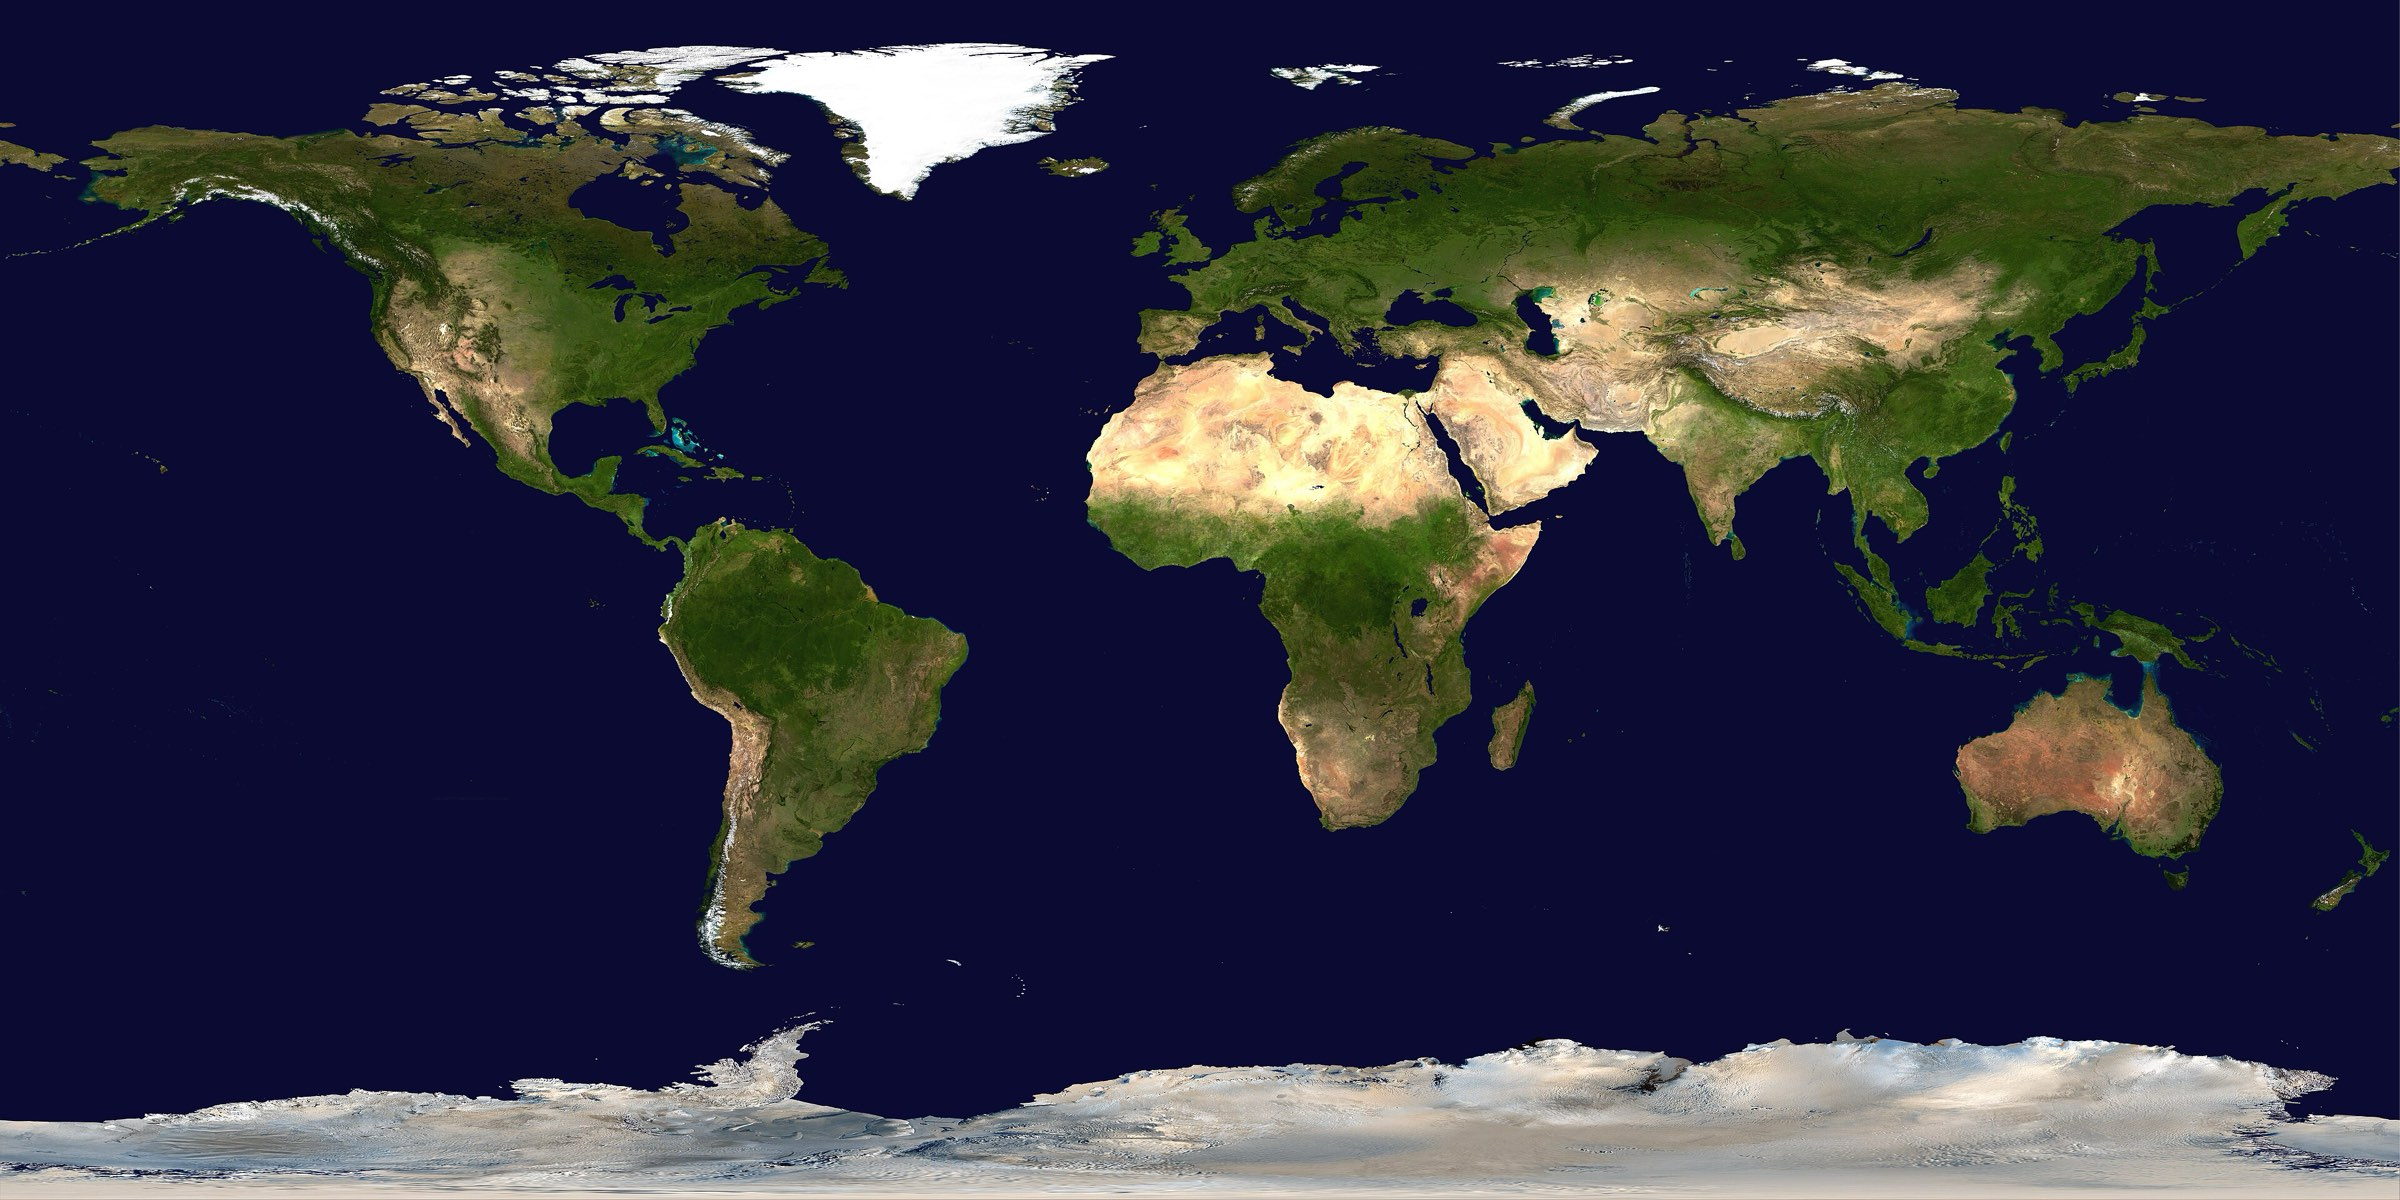
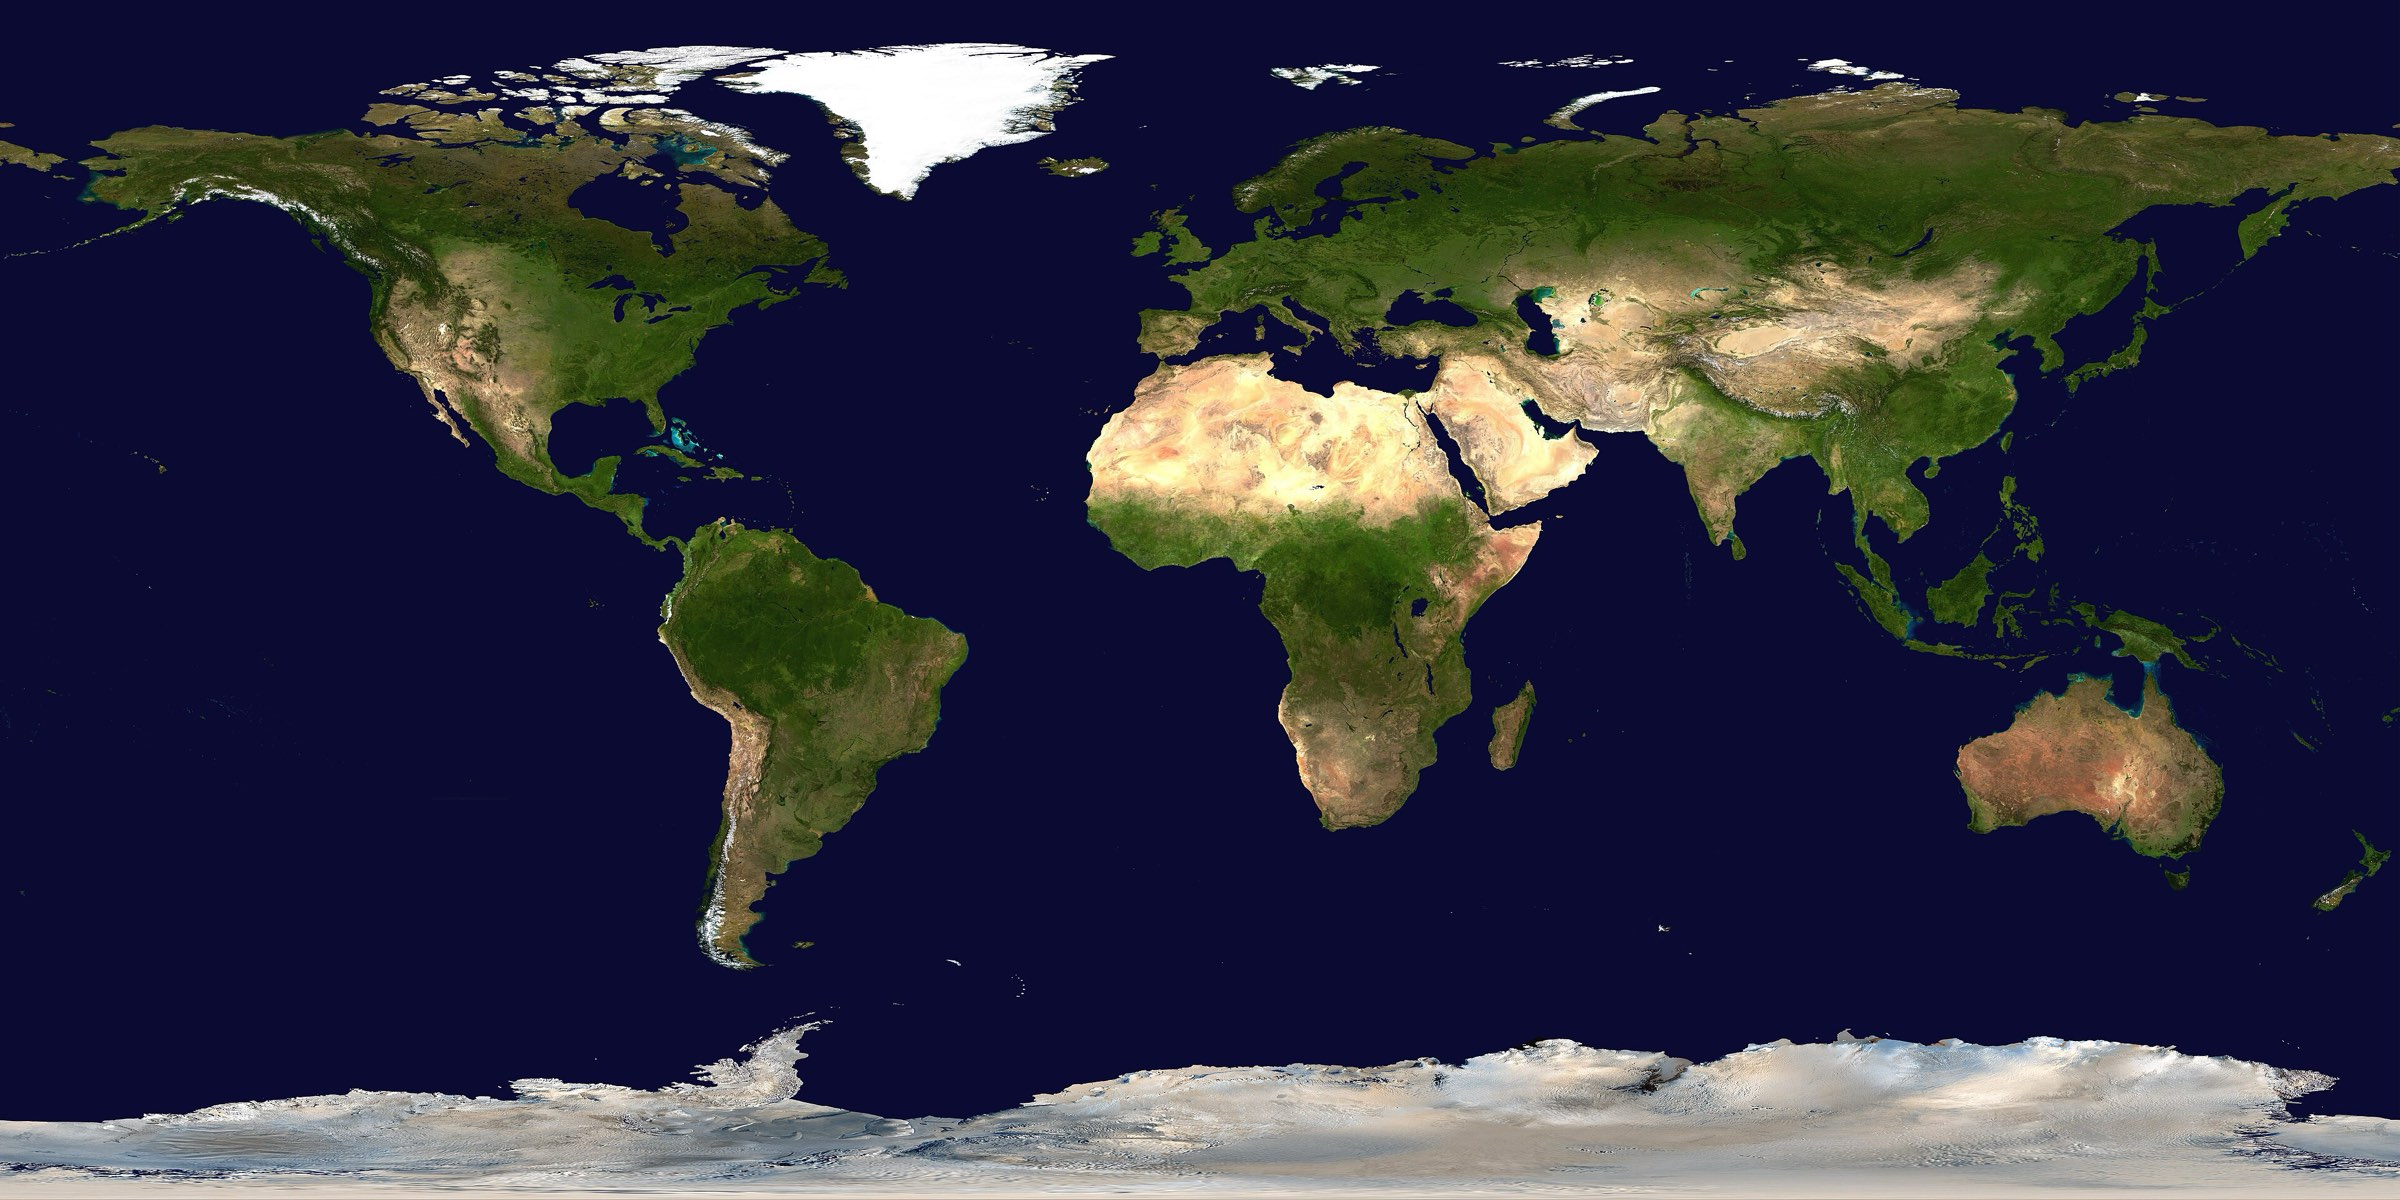
centrage parfait

diff --git a/assets/css/style.css b/assets/css/style.css
@@ -438,17 +438,17 @@ body.page-terre::before {
      est 0°, l'Atlantique au large du golfe de Guinée, si bien que l'Europe et
      l'Afrique partaient vers la droite. On met 8° est au milieu de l'écran,
      soit 52,22 % de la largeur de la photo (0,5 + 8/360).
-     Pas de répétition sur les côtés : le raccord faisait une ligne blanche
-     et coupait l'Alaska en deux. La photo est donc juste assez large pour
-     déborder des deux côtés : au moins 104,65 % de l'écran, soit
-     1 / (2 × (1 − 0,5222)), et au moins deux fois la hauteur de l'écran
-     (elle est deux fois plus large que haute) pour le couvrir en hauteur.
-     Seule la pointe ouest de l'Alaska sort à gauche : c'est le compromis
-     choisi (15° est la coupait de moitié). */
-  --largeur-terre: max(104.65vw, 200vh);
+     La photo garde sa taille normale : juste de quoi couvrir l'écran (deux
+     fois plus large que haute). Sur un écran large, le décalage laisse un
+     petit vide à droite : la photo s'y répète, et comme la Terre fait le
+     tour, la suite est la bonne. À 8°, le bord gauche tombe à 172° ouest,
+     au-delà de l'Alaska, qui reste entier (à 15°, il était coupé en deux).
+     La photo de jour a été rognée de quelques pixels à droite : sa dernière
+     colonne était claire et dessinait une ligne blanche au raccord. */
+  --largeur-terre: max(100vw, 200vh);
   background-color: #06101d;
   background-image: var(--voile), var(--terre);
-  background-repeat: no-repeat, no-repeat;
+  background-repeat: no-repeat, repeat-x;
   background-size: 100% 100%, var(--largeur-terre) auto;
   background-position: 0 0, calc(50vw - 0.5222 * var(--largeur-terre)) 50%;
 }

diff --git a/economie/index.html b/economie/index.html
@@ -15,7 +15,7 @@
   <meta property="og:description" content="Le PIB, la richesse par habitant, la croissance et l’inflation. Carte interactive de 197 pays, de 1980 à 2031, à partir des données officielles du FMI (World Economic Outlook) : classement mondial et évolution année par année.">
   <meta property="og:type" content="website">
   <meta property="og:url" content="https://statsmaps.com/economie/">
-  <link rel="stylesheet" href="../assets/css/style.css?v=867204c6">
+  <link rel="stylesheet" href="../assets/css/style.css?v=878b9673">
   <script src="../assets/js/theme.js?v=78038c6f"></script>
 </head>
 <body class="page-terre">

diff --git a/demographie/index.html b/demographie/index.html
@@ -15,7 +15,7 @@
   <meta property="og:description" content="Le nombre d’habitants de chaque pays, année par année. Carte interactive de 197 pays, de 1980 à 2031, à partir des données officielles du FMI (World Economic Outlook) : classement mondial et évolution année par année.">
   <meta property="og:type" content="website">
   <meta property="og:url" content="https://statsmaps.com/demographie/">
-  <link rel="stylesheet" href="../assets/css/style.css?v=867204c6">
+  <link rel="stylesheet" href="../assets/css/style.css?v=878b9673">
   <script src="../assets/js/theme.js?v=78038c6f"></script>
 </head>
 <body class="page-terre">

diff --git a/infrastructure/index.html b/infrastructure/index.html
@@ -15,7 +15,7 @@
   <meta property="og:description" content="Les réseaux qui font tenir une ville et un pays. Carte interactive de 197 pays, de 1980 à 2031, à partir des données officielles du FMI (World Economic Outlook) : classement mondial et évolution année par année.">
   <meta property="og:type" content="website">
   <meta property="og:url" content="https://statsmaps.com/infrastructure/">
-  <link rel="stylesheet" href="../assets/css/style.css?v=867204c6">
+  <link rel="stylesheet" href="../assets/css/style.css?v=878b9673">
   <script src="../assets/js/theme.js?v=78038c6f"></script>
 </head>
 <body class="page-terre">

diff --git a/en/infrastructure/index.html b/en/infrastructure/index.html
@@ -15,7 +15,7 @@
   <meta property="og:description" content="The networks that hold a city and a country together. An interactive map of 197 countries, from 1980 to 2031, built on official IMF data (World Economic Outlook): world ranking and year-by-year change.">
   <meta property="og:type" content="website">
   <meta property="og:url" content="https://statsmaps.com/en/infrastructure/">
-  <link rel="stylesheet" href="../../assets/css/style.css?v=867204c6">
+  <link rel="stylesheet" href="../../assets/css/style.css?v=878b9673">
   <script src="../../assets/js/theme.js?v=78038c6f"></script>
 </head>
 <body class="page-terre">

diff --git a/en/demographics/index.html b/en/demographics/index.html
@@ -15,7 +15,7 @@
   <meta property="og:description" content="How many people live in each country, year by year. An interactive map of 197 countries, from 1980 to 2031, built on official IMF data (World Economic Outlook): world ranking and year-by-year change.">
   <meta property="og:type" content="website">
   <meta property="og:url" content="https://statsmaps.com/en/demographics/">
-  <link rel="stylesheet" href="../../assets/css/style.css?v=867204c6">
+  <link rel="stylesheet" href="../../assets/css/style.css?v=878b9673">
   <script src="../../assets/js/theme.js?v=78038c6f"></script>
 </head>
 <body class="page-terre">

diff --git a/en/economy/index.html b/en/economy/index.html
@@ -15,7 +15,7 @@
   <meta property="og:description" content="GDP, wealth per person, growth and inflation. An interactive map of 197 countries, from 1980 to 2031, built on official IMF data (World Economic Outlook): world ranking and year-by-year change.">
   <meta property="og:type" content="website">
   <meta property="og:url" content="https://statsmaps.com/en/economy/">
-  <link rel="stylesheet" href="../../assets/css/style.css?v=867204c6">
+  <link rel="stylesheet" href="../../assets/css/style.css?v=878b9673">
   <script src="../../assets/js/theme.js?v=78038c6f"></script>
 </head>
 <body class="page-terre">

diff --git a/en/gdp-per-capita-ppp/index.html b/en/gdp-per-capita-ppp/index.html
@@ -17,7 +17,7 @@
   <meta property="og:url" content="https://statsmaps.com/en/gdp-per-capita-ppp/">
   <link rel="preload" href="../../data/pays.json" as="fetch" crossorigin>
   <link rel="stylesheet" href="https://cdnjs.cloudflare.com/ajax/libs/maplibre-gl/5.6.1/maplibre-gl.css">
-  <link rel="stylesheet" href="../../assets/css/style.css?v=867204c6">
+  <link rel="stylesheet" href="../../assets/css/style.css?v=878b9673">
   <script src="../../assets/js/theme.js?v=78038c6f"></script>
 </head>
 <body class="page-carte" data-indicateur="pib-par-habitant-ppa" data-langue="en" data-base="../../">

diff --git a/en/listed-companies/index.html b/en/listed-companies/index.html
@@ -18,7 +18,7 @@
   <link rel="preload" href="../../data/bourse/entreprises.json" as="fetch" crossorigin>
   <link rel="preload" href="../../data/pays.json" as="fetch" crossorigin>
   <link rel="stylesheet" href="https://cdnjs.cloudflare.com/ajax/libs/maplibre-gl/5.6.1/maplibre-gl.css">
-  <link rel="stylesheet" href="../../assets/css/style.css?v=867204c6">
+  <link rel="stylesheet" href="../../assets/css/style.css?v=878b9673">
   <script src="../../assets/js/theme.js?v=78038c6f"></script>
 </head>
 <body class="page-carte" data-indicateur="entreprises" data-langue="en" data-base="../../">

diff --git a/en/gdp-per-capita/index.html b/en/gdp-per-capita/index.html
@@ -17,7 +17,7 @@
   <meta property="og:url" content="https://statsmaps.com/en/gdp-per-capita/">
   <link rel="preload" href="../../data/pays.json" as="fetch" crossorigin>
   <link rel="stylesheet" href="https://cdnjs.cloudflare.com/ajax/libs/maplibre-gl/5.6.1/maplibre-gl.css">
-  <link rel="stylesheet" href="../../assets/css/style.css?v=867204c6">
+  <link rel="stylesheet" href="../../assets/css/style.css?v=878b9673">
   <script src="../../assets/js/theme.js?v=78038c6f"></script>
 </head>
 <body class="page-carte" data-indicateur="pib-par-habitant" data-langue="en" data-base="../../">

diff --git a/en/millionaires/index.html b/en/millionaires/index.html
@@ -17,7 +17,7 @@
   <meta property="og:url" content="https://statsmaps.com/en/millionaires/">
   <link rel="preload" href="../../data/pays.json" as="fetch" crossorigin>
   <link rel="stylesheet" href="https://cdnjs.cloudflare.com/ajax/libs/maplibre-gl/5.6.1/maplibre-gl.css">
-  <link rel="stylesheet" href="../../assets/css/style.css?v=867204c6">
+  <link rel="stylesheet" href="../../assets/css/style.css?v=878b9673">
   <script src="../../assets/js/theme.js?v=78038c6f"></script>
 </head>
 <body class="page-carte" data-indicateur="millionnaires" data-langue="en" data-base="../../">

diff --git a/en/metro/index.html b/en/metro/index.html
@@ -18,7 +18,7 @@
   <link rel="preload" href="../../data/metro/monde.json" as="fetch" crossorigin>
   <link rel="preload" href="../../data/pays.json" as="fetch" crossorigin>
   <link rel="stylesheet" href="https://cdnjs.cloudflare.com/ajax/libs/maplibre-gl/5.6.1/maplibre-gl.css">
-  <link rel="stylesheet" href="../../assets/css/style.css?v=867204c6">
+  <link rel="stylesheet" href="../../assets/css/style.css?v=878b9673">
   <script src="../../assets/js/theme.js?v=78038c6f"></script>
 </head>
 <body class="page-carte" data-indicateur="metro" data-langue="en" data-base="../../">
